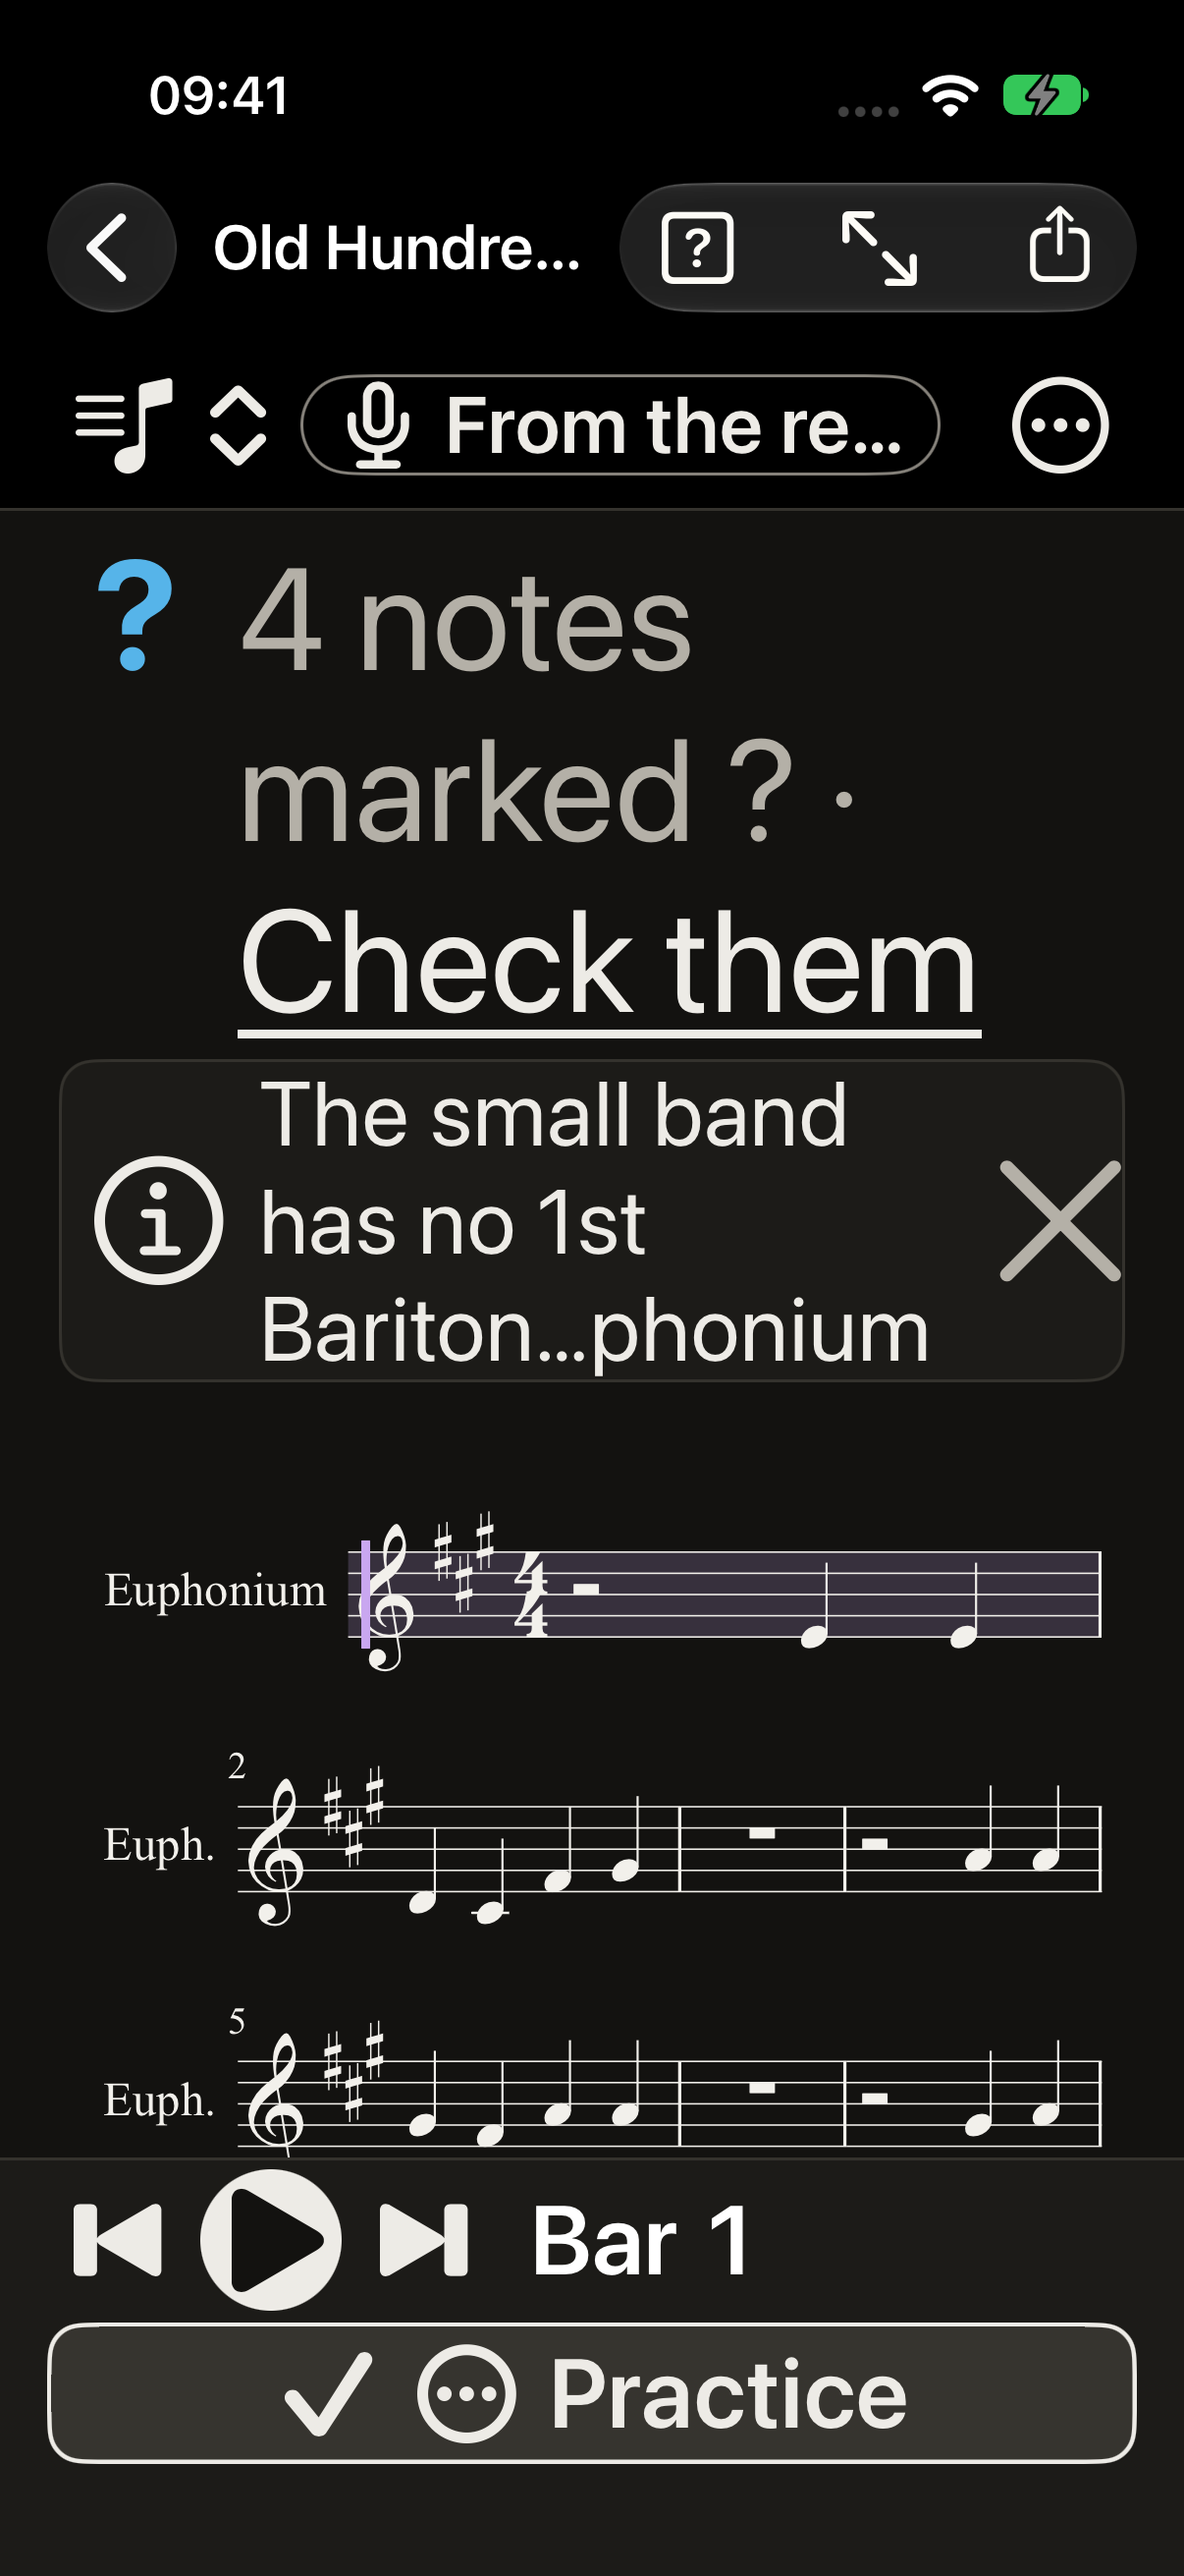
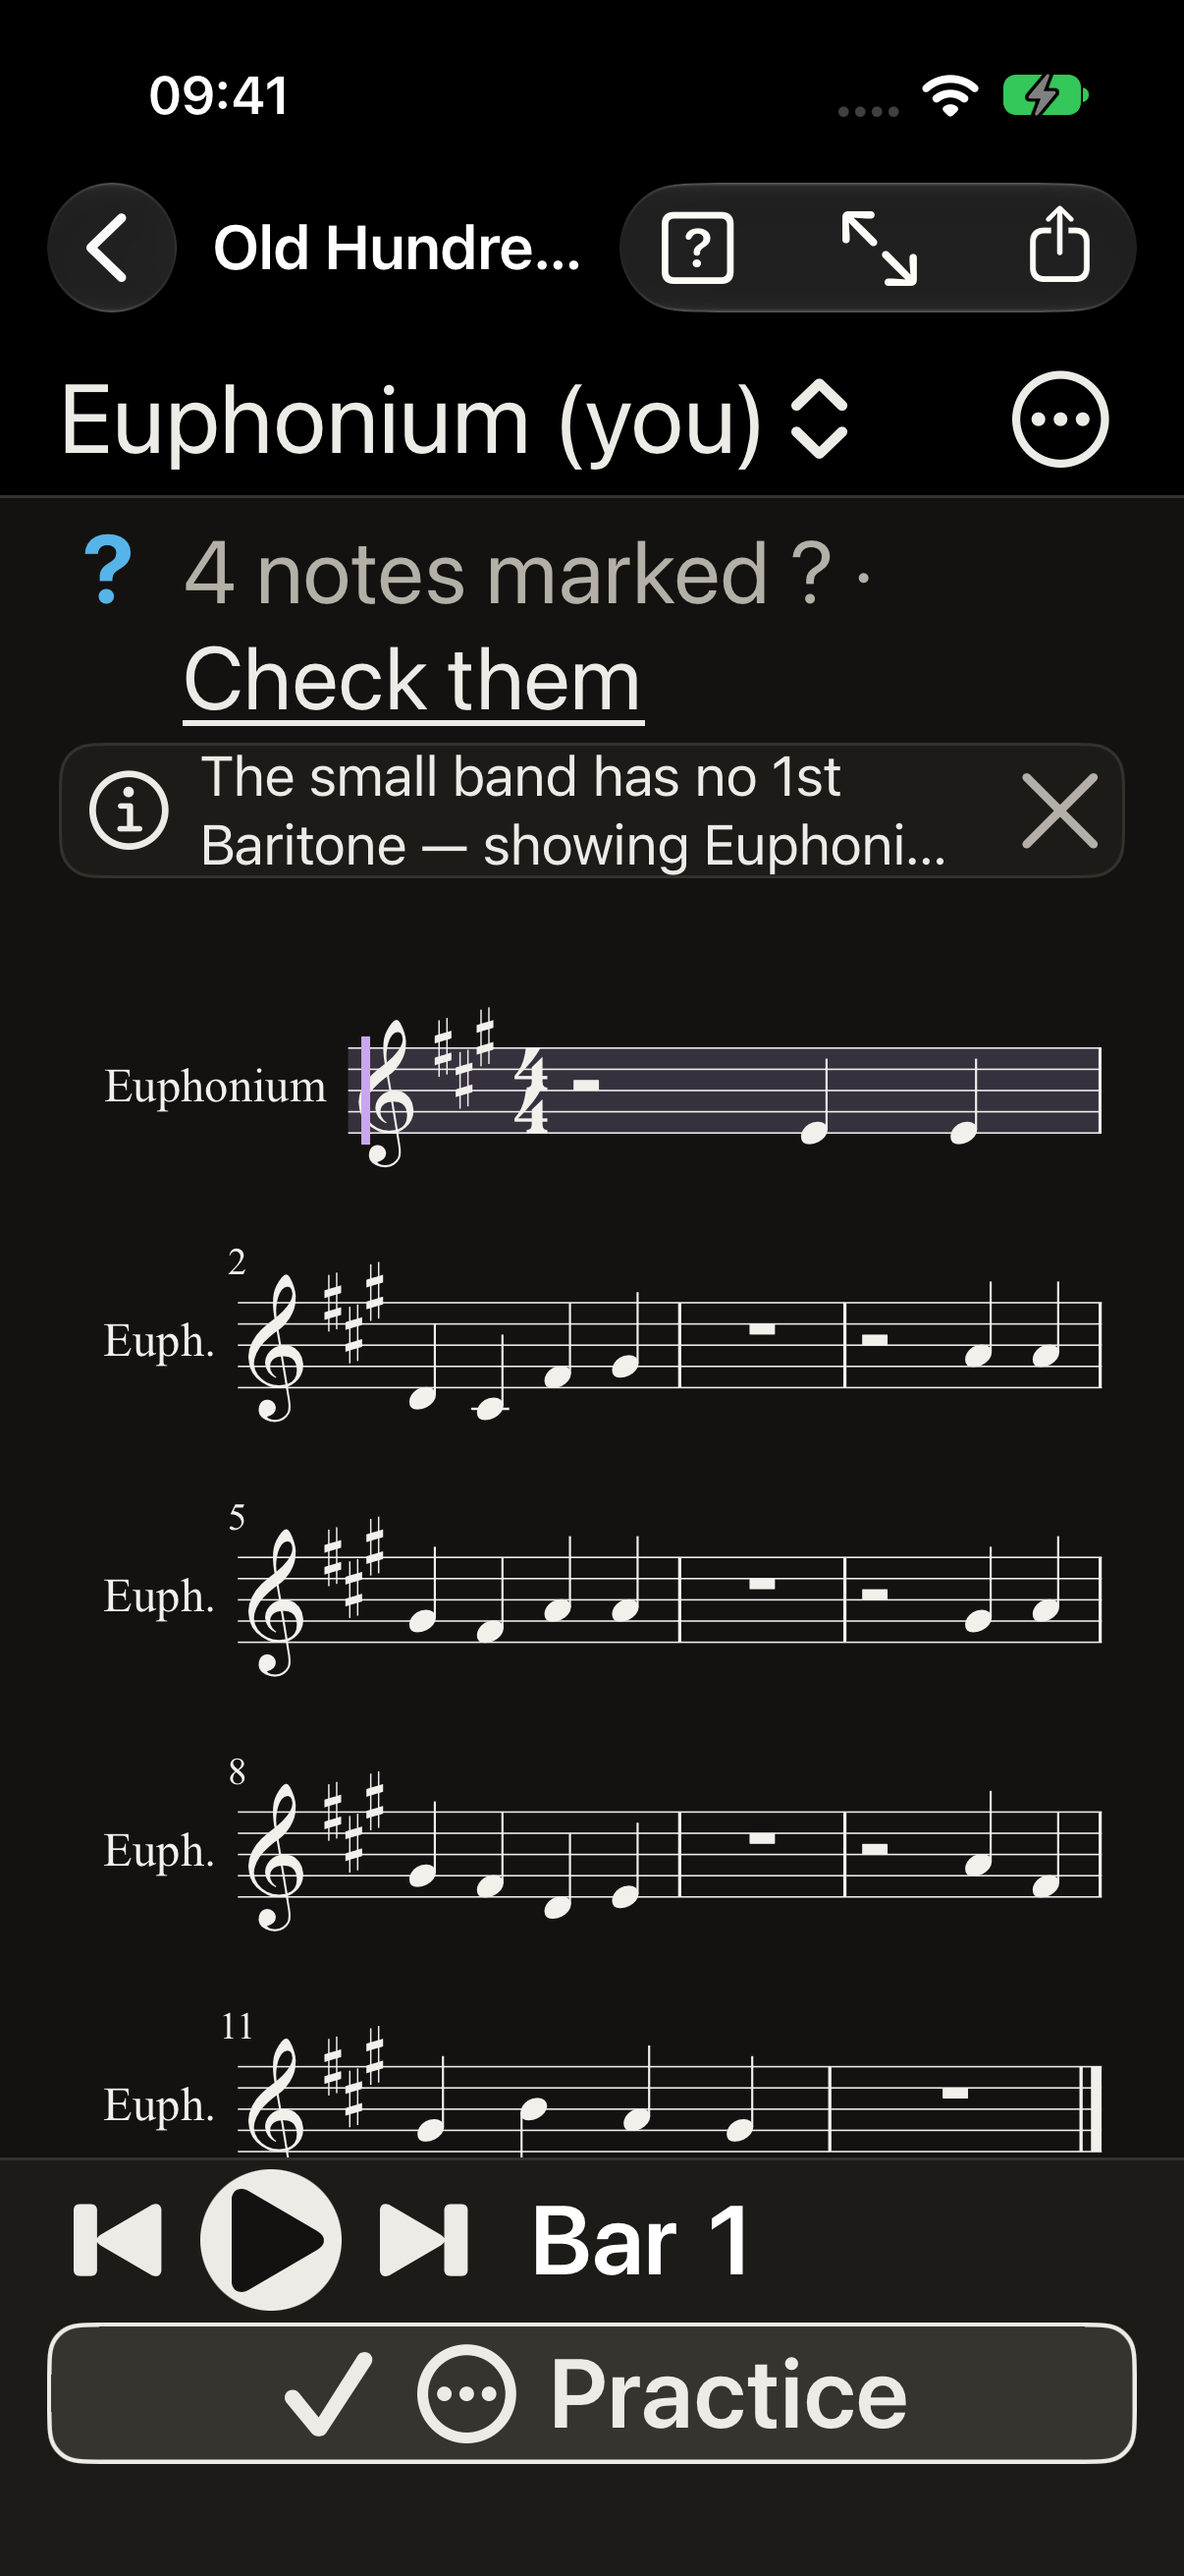
fix(apple): keep the part's name on the phone at the largest text sizes
At AX sizes the part row shows the part's name (cut at its end) and
View; where the part comes from moves into View whole, with its
explanation. The seat banner wraps to two lines and cuts at its end,
and the header above the music grows to about twice the default size
like the rest of the phone's chrome.

diff --git a/apps/apple/App/Views/ScoreScreen.swift b/apps/apple/App/Views/ScoreScreen.swift
@@ -276,6 +276,7 @@ struct StatusLine: View {
 struct ScoreToolbar: View {
     @Bindable var model: PracticeModel
     @Environment(AppModel.self) private var app
+    @State private var explainSource: PartSourceKind?
     @Environment(\.dynamicTypeSize) private var typeSize
     @AccessibilityFocusState private var standButtonA11y: Bool
     @FocusState private var standButtonKeys: Bool
@@ -304,7 +305,9 @@ struct ScoreToolbar: View {
     var body: some View {
         Group {
             if !wide && typeSize >= .accessibility1 {
-                HStack(spacing: Space.s2) { parts; sourcePill; Spacer(minLength: 0); view }
+                // the largest sizes: the part's name keeps the row (cut at its end); the source label
+                // sits above the music, where it can wrap
+                HStack(spacing: Space.s2) { parts.frame(maxWidth: .infinity, alignment: .leading); view }
             } else if !wide {
                 // phone: one row, the part and where it comes from, then View (pitch, zoom, the stand)
                 ViewThatFits(in: .horizontal) {
@@ -384,12 +387,7 @@ struct ScoreToolbar: View {
                 partChoices.pickerStyle(.inline)
             } label: {
                 HStack(spacing: Space.s1) {
-                    if typeSize >= .accessibility1 {
-                        // the largest sizes: the icon, so the row stays one row (the staff names the part)
-                        Image(systemName: BrasscribeIcon.parts.systemName).frame(minWidth: 44)
-                    } else {
-                        Text(shownTitle).lineLimit(1)
-                    }
+                    Text(shownTitle).lineLimit(1).truncationMode(.tail)
                     Image(systemName: "chevron.up.chevron.down").font(.footnote.weight(.semibold)).accessibilityHidden(true)
                 }
                 .font(Font.Brasscribe.body)
@@ -437,6 +435,13 @@ struct ScoreToolbar: View {
 
     private func viewMenu(iconOnly: Bool) -> some View {
         Menu {
+            if !wide, typeSize >= .accessibility1, let id = model.shownPart, let kind = model.partSources[id] {
+                // the largest sizes: where the part comes from, whole, with its explanation
+                Section {
+                    Button { explainSource = kind } label: { Label(kind.title, systemImage: kind.icon.systemName) }
+                        .accessibilityIdentifier("sourceLabel")
+                }
+            }
             if !wide {
                 // phone: the pitch and the zoom live here, so the music keeps the screen
                 Section {
@@ -480,6 +485,9 @@ struct ScoreToolbar: View {
         .frame(minHeight: 44)
         .fixedSize()
         .accessibilityIdentifier("viewMenu")
+        .alert(explainSource?.title ?? "", isPresented: Binding(get: { explainSource != nil }, set: { if !$0 { explainSource = nil } })) {
+            Button("OK") {}
+        } message: { Text(explainSource?.explanation ?? "") }
     }
 }
 

diff --git a/apps/apple/App/Views/NotationView.swift b/apps/apple/App/Views/NotationView.swift
@@ -32,6 +32,8 @@ struct NotationView: View {
                             PartHeader(model: model)
                         }
                         .padding(.top, BrasscribeDesign.Space.s1)
+                        // like the phone's other chrome, it grows to about twice the default size
+                        .dynamicTypeSize(hsize == .compact ? DynamicTypeSize.xSmall ... DynamicTypeSize.accessibility2 : DynamicTypeSize.xSmall ... DynamicTypeSize.accessibility5)
                         .id("page-top")
                         ForEach(model.pages, id: \.number) { page in
                             PageView(model: model, page: page, rotorNS: rotorNS)

diff --git a/apps/apple/App/Views/SourceLabel.swift b/apps/apple/App/Views/SourceLabel.swift
@@ -87,7 +87,7 @@ struct PartHeader: View {
             Button { explaining = true } label: {
                 HStack(spacing: Space.s2) {
                     Image(systemName: BrasscribeIcon.info.systemName).accessibilityHidden(true)
-                    Text(short).lineLimit(typeSize >= .accessibility1 ? 3 : 1).minimumScaleFactor(0.7).truncationMode(.middle)
+                    Text(short).lineLimit(typeSize >= .accessibility1 ? 2 : 1).minimumScaleFactor(0.7).truncationMode(.tail)
                     Spacer(minLength: 0)
                 }
                 .font(Font.Brasscribe.caption)
